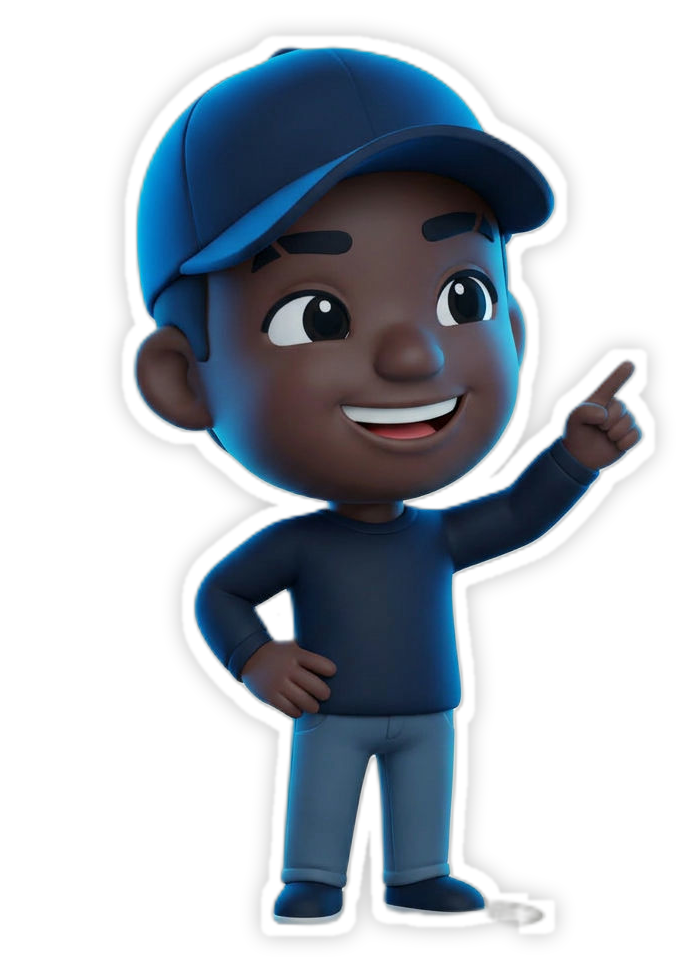
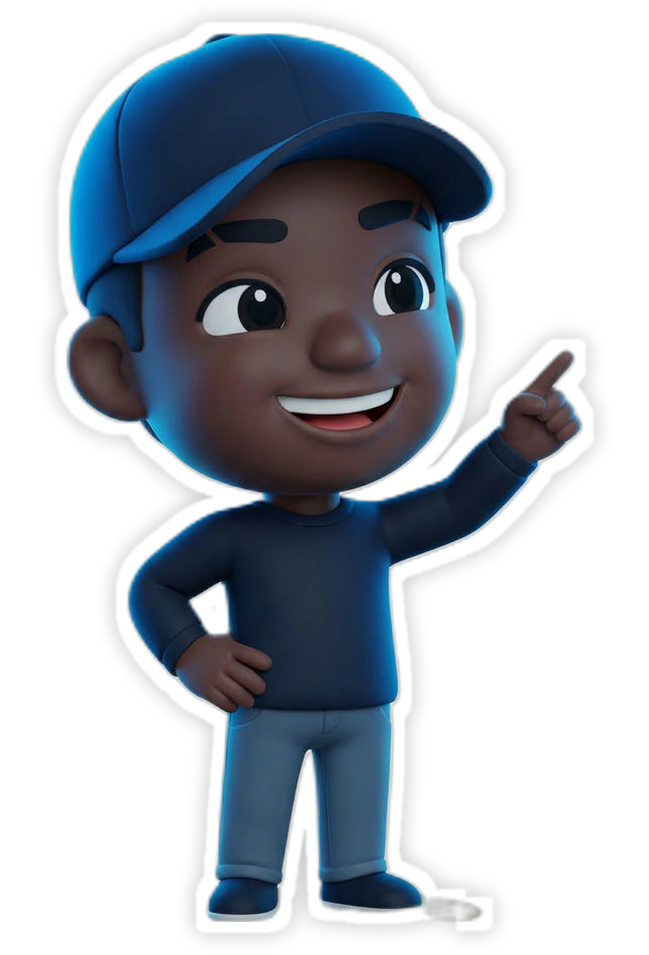
Skill : ajoute 11 poses issues de la planche (17 au total) et leur catalogue
- poses HD régénérées depuis la planche, détourées, même échelle, pieds alignés
- references/poses-catalogue.md : quelle pose selon ce que dit la voix
- prepare_poses.py généralisé, colorkey_cut.py pour les objets fins
- le modèle ne charge que les poses utilisées

Claude-Session: https://claude.ai/code/session_01PxiCiqp9Ara8YtCQVGuLPB

diff --git a/.claude/skills/video-avatar-motion/scripts/prepare_poses.py b/.claude/skills/video-avatar-motion/scripts/prepare_poses.py
@@ -1,34 +1,48 @@
-# Aligne plusieurs poses détourées (pieds au même niveau), ajoute le contour blanc et les recadre dans un cadre commun.
-# Usage : python3 prepare_poses.py <dossier_avec_cut_*.png> <dossier_sortie>
-# Attend cut_base.png, cut_point.png, cut_think.png, cut_shock.png, cut_laptop.png, cut_wave.png (sortie de remove-background).
-import sys
+# Met plusieurs poses détourées à la même échelle (même hauteur de personnage), aligne les pieds,
+# ajoute le contour blanc "sticker" et les recadre toutes dans un cadre commun : elles se remplacent sans saut.
+# Usage : python3 prepare_poses.py <dossier_cut> <dossier_sortie> [ref=base] [noms...]
+#   <dossier_cut> contient cut_<nom>.png (sortie de `npx hyperframes remove-background`).
+#   Sans noms : toutes les cut_*.png du dossier. Sortie : avatar_<nom>.png
+#   Les noms suffixés par ":h=0.9" gardent une hauteur relative (ex. bureau_ordinateur:h=0.9).
+import glob, os, sys
 from PIL import Image, ImageFilter
-names = ['base','point','think','shock','laptop','wave']
+
 src, out = sys.argv[1], sys.argv[2]
-ims = {}
+ref = sys.argv[3] if len(sys.argv) > 3 else "base"
+args = sys.argv[4:] or sorted(os.path.basename(p)[4:-4] for p in glob.glob(f"{src}/cut_*.png"))
+rel = {}
+names = []
+for a in args:
+    n, _, opt = a.partition(":h=")
+    names.append(n)
+    rel[n] = float(opt) if opt else 1.0
+
+def load(n):
+    im = Image.open(f"{src}/cut_{n}.png").convert("RGBA")
+    bb = im.split()[3].point(lambda v: 255 if v > 100 else 0).getbbox()
+    return im.crop(bb)
+
+target_h = load(ref).size[1]
+W, H, pad = 1100, int(target_h * 1.25) + 80, 40
+frames = []
 for n in names:
-    im = Image.open(f'{src}/cut_{n}.png').convert('RGBA')
-    a = im.split()[3].point(lambda v: 255 if v > 100 else 0)
-    bb = a.getbbox()
-    ims[n] = (im, bb)
-base_bottom = ims['base'][1][3]
-pad = 40
-canvas = []
-for n in names:
-    im, bb = ims[n]
-    dy = base_bottom - bb[3]          # align feet on the base pose
-    c = Image.new('RGBA', (1024 + 2*pad, 1024 + 2*pad), (0,0,0,0))
-    c.paste(im, (pad, pad + dy), im)
+    im = load(n)
+    s = target_h * rel[n] / im.size[1]
+    im = im.resize((max(1, round(im.size[0] * s)), round(im.size[1] * s)), Image.LANCZOS)
+    c = Image.new("RGBA", (W, H), (0, 0, 0, 0))
+    c.paste(im, ((W - im.size[0]) // 2, H - pad - im.size[1]), im)  # centré, pieds sur la même ligne
     a = c.split()[3].point(lambda v: 255 if v > 100 else 0)
     ol = a.filter(ImageFilter.MaxFilter(25)).filter(ImageFilter.GaussianBlur(1.2))
-    w = Image.new('RGBA', c.size, (255,255,255,255)); w.putalpha(ol)
-    sh = Image.new('RGBA', c.size, (0,0,0,255)); sh.putalpha(ol.filter(ImageFilter.GaussianBlur(10)).point(lambda v: int(v*.25)))
-    o = Image.new('RGBA', c.size, (0,0,0,0)); o.alpha_composite(sh); o.alpha_composite(w); o.alpha_composite(c)
-    canvas.append((n, o))
+    wht = Image.new("RGBA", c.size, (255, 255, 255, 255)); wht.putalpha(ol)
+    sh = Image.new("RGBA", c.size, (0, 0, 0, 255)); sh.putalpha(ol.filter(ImageFilter.GaussianBlur(10)).point(lambda v: int(v * .25)))
+    o = Image.new("RGBA", c.size, (0, 0, 0, 0)); o.alpha_composite(sh); o.alpha_composite(wht); o.alpha_composite(c)
+    frames.append((n, o))
+
 box = None
-for n, o in canvas:
+for _, o in frames:
     b = o.getbbox()
-    box = b if box is None else (min(box[0],b[0]), min(box[1],b[1]), max(box[2],b[2]), max(box[3],b[3]))
-for n, o in canvas:
-    o.crop(box).save(f'{out}/avatar_{n}.png')
-print(box, box[2]-box[0], box[3]-box[1])
+    box = b if box is None else (min(box[0], b[0]), min(box[1], b[1]), max(box[2], b[2]), max(box[3], b[3]))
+os.makedirs(out, exist_ok=True)
+for n, o in frames:
+    o.crop(box).save(f"{out}/avatar_{n}.png")
+print(f"{len(frames)} poses -> {out}  cadre commun {box[2]-box[0]}x{box[3]-box[1]} (rapport {round((box[2]-box[0])/(box[3]-box[1]),3)})")

diff --git a/.claude/skills/video-avatar-motion/templates/generate_example.py b/.claude/skills/video-avatar-motion/templates/generate_example.py
@@ -383,10 +383,11 @@ for t, x, sx in moves:
     mjs += f'tl.to("#av-hop", {{ y: -70, duration: 0.22, ease: "power2.out" }}, {t}).to("#av-hop", {{ y: 0, duration: 0.45, ease: "bounce.out" }}, {t+0.22});\n'
 for t in [T(245)-0.3, T(288)]:
     mjs += f'tl.to("#av-hop", {{ y: -90, scale: 1.05, duration: 0.22, ease: "power2.out" }}, {t}).to("#av-hop", {{ y: 0, scale: 1, duration: 0.5, ease: "bounce.out" }}, {t+0.22});\n'
-POSES = ["base", "point", "think", "shock", "laptop", "wave"]
-imgs = "".join(f'<img id="av-{n}" class="av-img" src="assets/avatar_{n}.png" alt="avatar {n}">' for n in POSES)
+# Poses disponibles : voir references/poses-catalogue.md (17 poses). Seules celles de `sched` sont chargées.
 sched = [(3.3, "think"), (5.75, "point"), (18.8, "laptop"), (34.9, "think"), (38.1, "laptop"), (46.2, "point"), (51.7, "think"),
          (55.9, "point"), (64.9, "laptop"), (73.6, "shock"), (79.2, "think"), (84.0, "point"), (90.65, "base"), (101.3, "point"), (109.4, "wave")]
+POSES = ["base"] + sorted({n for _, n in sched} - {"base"})
+imgs = "".join(f'<img id="av-{n}" class="av-img" src="assets/avatar_{n}.png" alt="avatar {n}">' for n in POSES)
 cur = "base"
 for t, n in sched:
     mjs += f'tl.set("#av-{cur}", {{ opacity: 0 }}, {t}); tl.set("#av-{n}", {{ opacity: 1 }}, {t});\n'
@@ -395,7 +396,7 @@ for t, n in sched:
 avatar = f"""<template>
   <style>
     #root{{position:absolute;inset:0;pointer-events:none}}
-    #av-x{{position:absolute;left:236px;top:1076px;width:608px;height:861px}}
+    #av-x{{position:absolute;left:241px;top:1058px;width:598px;height:880px}}
     #av-hop,#av-bob,#av-pop{{position:relative;width:100%;height:100%;transform-origin:50% 100%}}
     .av-img{{position:absolute;left:0;top:0;width:100%;height:100%;object-fit:contain;object-position:50% 100%;opacity:0}}
     #av-base{{opacity:1}}

diff --git a/.claude/skills/video-avatar-motion/scripts/colorkey_cut.py b/.claude/skills/video-avatar-motion/scripts/colorkey_cut.py
@@ -1,0 +1,15 @@
+# Complète un détourage IA avec un détourage par couleur de fond (objets fins : pieds de table…).
+# Usage : python3 colorkey.py original.png cut_ia.png sortie.png [seuil=38]
+import sys
+from PIL import Image, ImageChops, ImageFilter
+orig = Image.open(sys.argv[1]).convert("RGB")
+cut = Image.open(sys.argv[2]).convert("RGBA")
+thr = int(sys.argv[4]) if len(sys.argv) > 4 else 38
+w, h = orig.size
+corners = [orig.getpixel(p) for p in [(5, 5), (w - 6, 5), (5, h - 6), (w - 6, h - 6), (w // 2, 5)]]
+bg = tuple(sorted(c[i] for c in corners)[2] for i in range(3))
+diff = ImageChops.difference(orig, Image.new("RGB", orig.size, bg)).convert("L")
+key = diff.point(lambda v: 255 if v > thr else 0).filter(ImageFilter.MedianFilter(5))
+alpha = ImageChops.lighter(cut.split()[3], key)
+out = orig.convert("RGBA"); out.putalpha(alpha)
+out.save(sys.argv[3]); print("fond", bg)

diff --git a/.claude/skills/video-avatar-motion/references/poses-catalogue.md b/.claude/skills/video-avatar-motion/references/poses-catalogue.md
@@ -1,0 +1,38 @@
+# Catalogue des poses de l'avatar Koné (17 poses)
+
+Fichiers prêts à l'emploi : `assets/poses/avatar_<nom>.png`. Toutes ont un fond transparent et le contour blanc. Elles partagent le même cadre (rapport 0,68) : même taille de personnage, pieds sur la même ligne. On passe donc de l'une à l'autre sans saut.
+Originaux (fond gris) : `assets/poses-originales/`. Planche de départ fournie par Koné : `assets/planche-avatar-kone.png`.
+
+Dans le modèle, on choisit une pose en ajoutant `(temps, "nom")` à la liste `sched`. Le retournement gauche/droite (`scaleX: -1` dans `moves`) marche avec toutes les poses.
+
+## Comment choisir (selon ce que dit la voix)
+
+| Nom | Ce qu'on voit | À utiliser quand la voix… |
+| --- | --- | --- |
+| `base` | Face, sourire, bras croisés, pouce levé | ouvre la vidéo, valide une idée, dit « atout », « c'est simple », conclut positivement |
+| `face_pouce` | Variante de `base` (même attitude, rendu planche) | même usage que `base`, pour varier |
+| `point` | Montre du doigt vers le haut/côté | présente une idée, une liste, un chiffre, « voici… », « par exemple… » (orienter le doigt vers le contenu) |
+| `think` | Main au menton, regard vers le haut | pose une question, « et si… ? », « avant de… », réflexion |
+| `pensif` | Main au menton, air sérieux, regard de côté | doute, mise en garde douce, « vérifiez », « posez-vous la question » |
+| `pensif_souriant` | Main au menton, sourire | astuce, idée maligne, « voici l'astuce », « pensez à… » |
+| `enjoue` | Deux mains levées, grand sourire | bonne nouvelle, résultat, « bravo », « c'est possible ! », énergie |
+| `wave` | Salue d'une main, pointe le spectateur | salut d'ouverture, « contactez-moi », « abonnez-vous », fin de vidéo |
+| `shock` | Mains sur la tête, bouche ouverte | « attention », erreur fréquente, piège, surprise négative |
+| `triste` | Bras ballants, air déçu | problème, frustration, « vous pensez n'avoir rien à vendre », avant/après (avant) |
+| `laptop` | Debout, ordinateur ouvert, tape dessus | « demandez à ChatGPT », prompt en train d'être écrit |
+| `ordinateur_main` | Debout, présente un ordinateur ouvert d'une main | montre un outil, un résultat à l'écran, « regardez ce que ChatGPT propose » |
+| `bureau_ordinateur` | Assis à un bureau, tape sur l'ordinateur | travail, méthode pas à pas, « installez-vous », formation, tutoriel |
+| `trois_quarts` | De trois-quarts, tourné vers la droite, bras croisés | regarde le contenu affiché à côté de lui (placer le contenu du côté où il regarde) |
+| `profil` | De profil, tourné vers la gauche | regarde/« écoute » un élément à gauche ; transition, marche |
+| `dos_trois_quarts` | De dos, trois-quarts | se retourne vers un écran/un tableau, « regardons ensemble » |
+| `dos` | De dos | entrée ou sortie de scène, regarde un grand titre ou un tableau derrière lui |
+
+## Règles de mise en scène
+- **Changer de pose à chaque nouvelle idée** (toutes les 3 à 8 s), jamais deux fois de suite la même sauf pendant un prompt.
+- **Le regard ou le doigt va vers le contenu** : si le contenu est à droite de l'avatar, utiliser `point` / `trois_quarts` non retournés ; s'il est à gauche, les retourner (`scaleX: -1`).
+- **Petite séquence de retournement** (effet « il se tourne vers l'écran ») : `trois_quarts` → `dos_trois_quarts` → `dos`, environ 0,15 s chacune.
+- Ouverture : `base` ou `wave`. Problème : `triste` ou `think`. Solution : `point` / `enjoue`. Mise en garde : `shock` puis `pensif`. Appel à l'action : `wave`.
+- `bureau_ordinateur` est plus large (il y a le bureau) : le placer au centre ou du côté opposé au contenu.
+
+## Ajouter une pose
+Voir `references/poses.md`, puis relancer `scripts/prepare_poses.py` sur **toutes** les poses (dossier `cut_*.png`) pour garder le cadre commun. Pour les objets fins que le détourage IA efface (pieds de table, chaise), compléter avec `scripts/colorkey_cut.py original.png cut.png cut.png 30`.
